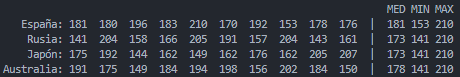
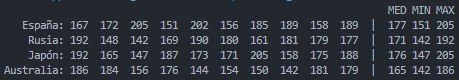
cms

diff --git a/tema7/c72/ej13_bidi/Ej13.java b/tema7/c72/ej13_bidi/Ej13.java
@@ -64,6 +64,9 @@ public class Ej13{
 
         suma=0;
 
+        max=Integer.MIN_VALUE;
+        min=Integer.MAX_VALUE;
+
         System.out.println();
       }
   }
